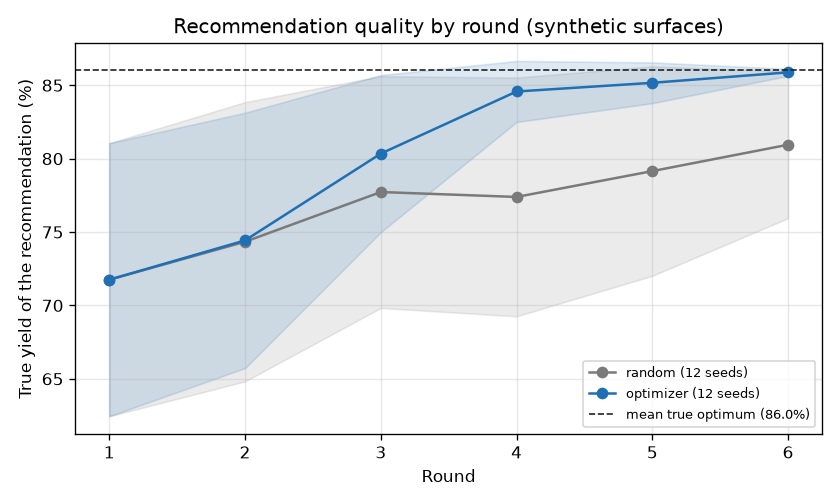
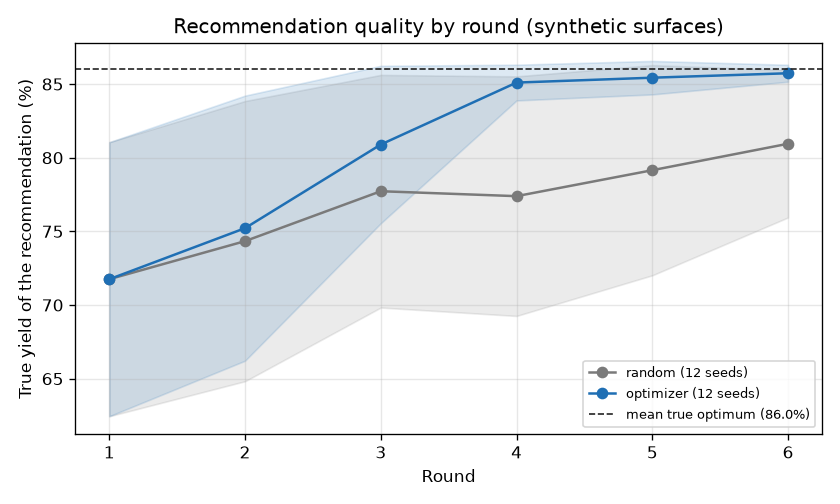
Regenerate the Appendix C benchmark check on one-thread linear algebra
Same command as before. The optimizer rows move by under a point and stay
in Appendix C's neighborhood (85.7 against 85.4 after round 6); the
random rows are unchanged. One thread is slower for the optimizer's
sampling, so the docstring no longer says otherwise.

diff --git a/src/labauto/blas.py b/src/labauto/blas.py
@@ -4,7 +4,8 @@ A threaded BLAS can sum in a different order when its thread count changes.
 Most results do not notice, but a few steps amplify the last bits: Thompson
 sampling from a Gaussian process draws through a factorization of a nearly
 singular covariance, so the optimizer's picks changed with OPENBLAS_NUM_THREADS.
-The matrices here are small, so one thread is also not slower.
+One thread makes that sampling slower (it covers every untested grid point),
+but the same seed then gives the same picks on any thread count.
 """
 
 from __future__ import annotations

diff --git a/docs/benchmark_check.md b/docs/benchmark_check.md
@@ -13,22 +13,22 @@ Command: `labauto benchmark --strategies random,optimizer --seeds 12 --model-see
 | Strategy | Seeds | Round 1 | Round 2 | Round 3 | Round 4 | Round 5 | Round 6 |
 |---|---|---|---|---|---|---|---|
 | random | 12 | 71.8 | 74.3 | 77.7 | 77.4 | 79.2 | 80.9 |
-| optimizer | 12 | 71.8 | 74.4 | 80.3 | 84.6 | 85.2 | 85.9 |
+| optimizer | 12 | 71.8 | 75.2 | 80.9 | 85.1 | 85.4 | 85.7 |
 
 ## Share of seeds within 3 points of the optimum
 
 | Strategy | Seeds | Round 1 | Round 2 | Round 3 | Round 4 | Round 5 | Round 6 |
 |---|---|---|---|---|---|---|---|
 | random | 12 | 0.08 | 0.17 | 0.25 | 0.25 | 0.33 | 0.42 |
-| optimizer | 12 | 0.08 | 0.08 | 0.33 | 0.83 | 0.83 | 1.00 |
+| optimizer | 12 | 0.08 | 0.08 | 0.42 | 0.92 | 0.92 | 1.00 |
 
 True optimum of surface seed 0: 86.0%.
 
 ![Benchmark](img/benchmark_check.png)
 
 - random: 0 s for 12 seeds.
-- optimizer: 50 s for 12 seeds.
+- optimizer: 120 s for 12 seeds.
 
 Model: none (no model strategy was run)  
-Date: 2026-11-11  
-Git commit: b306dfd
+Date: 2026-11-12  
+Git commit: v0.3-closed-loop-25-gacb91a5
